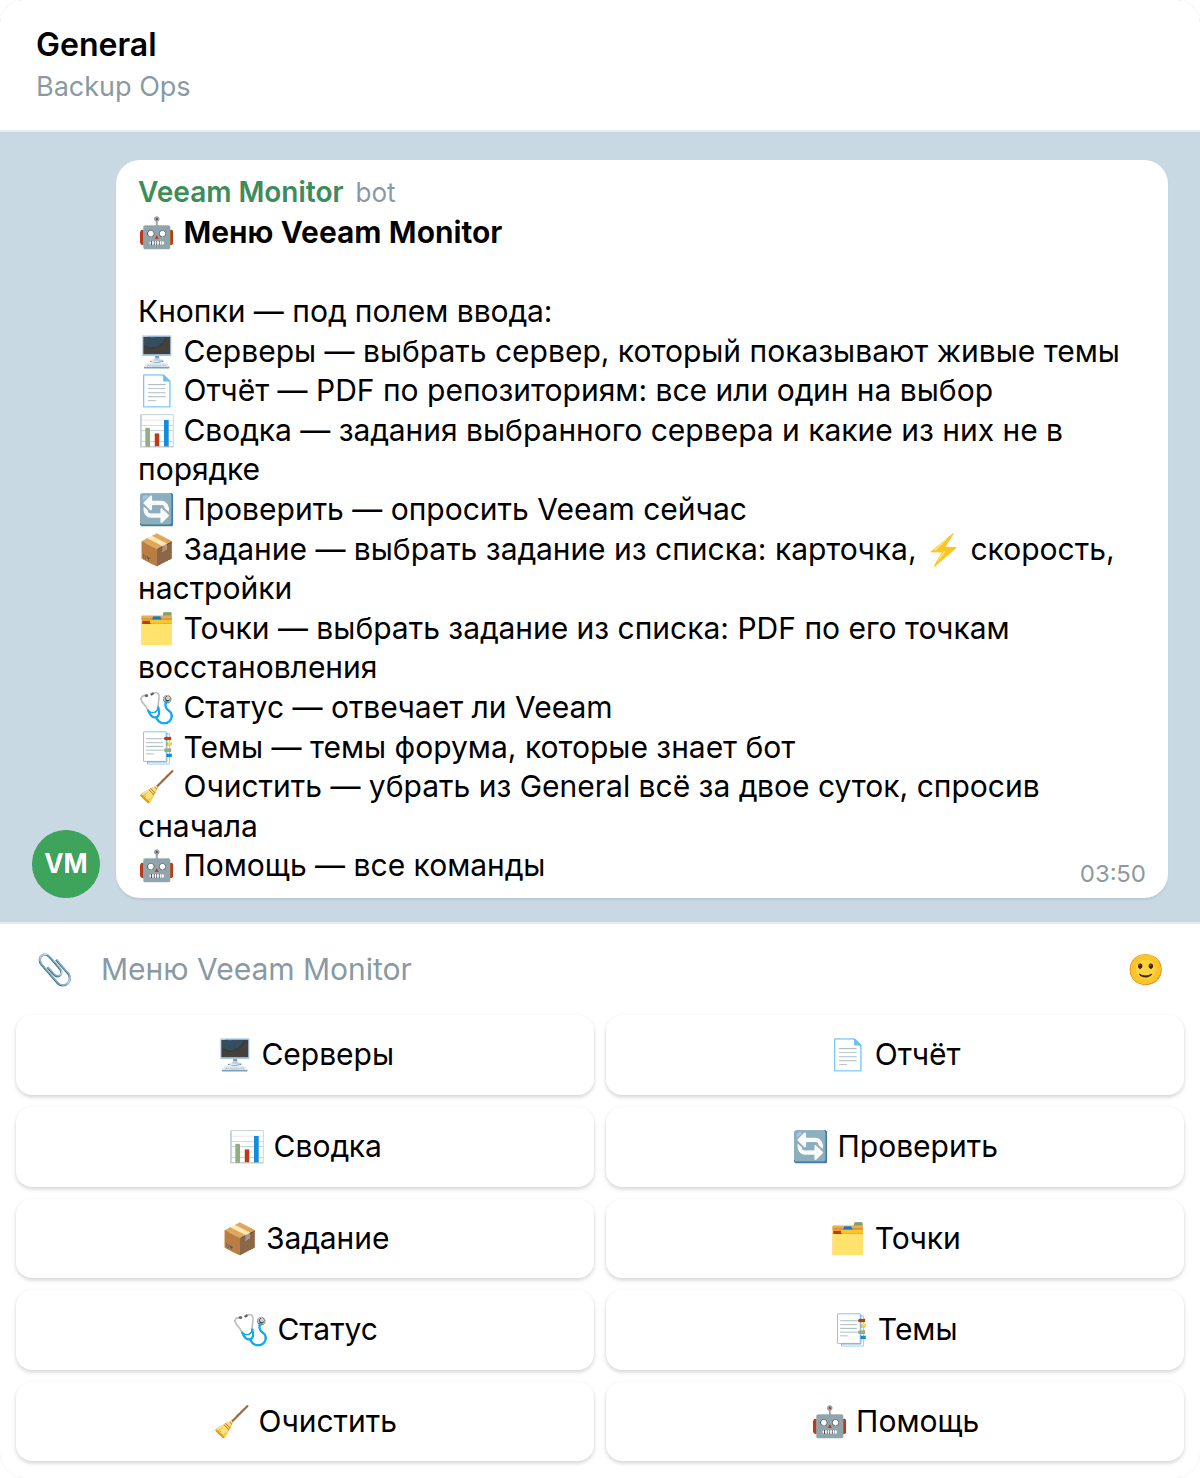
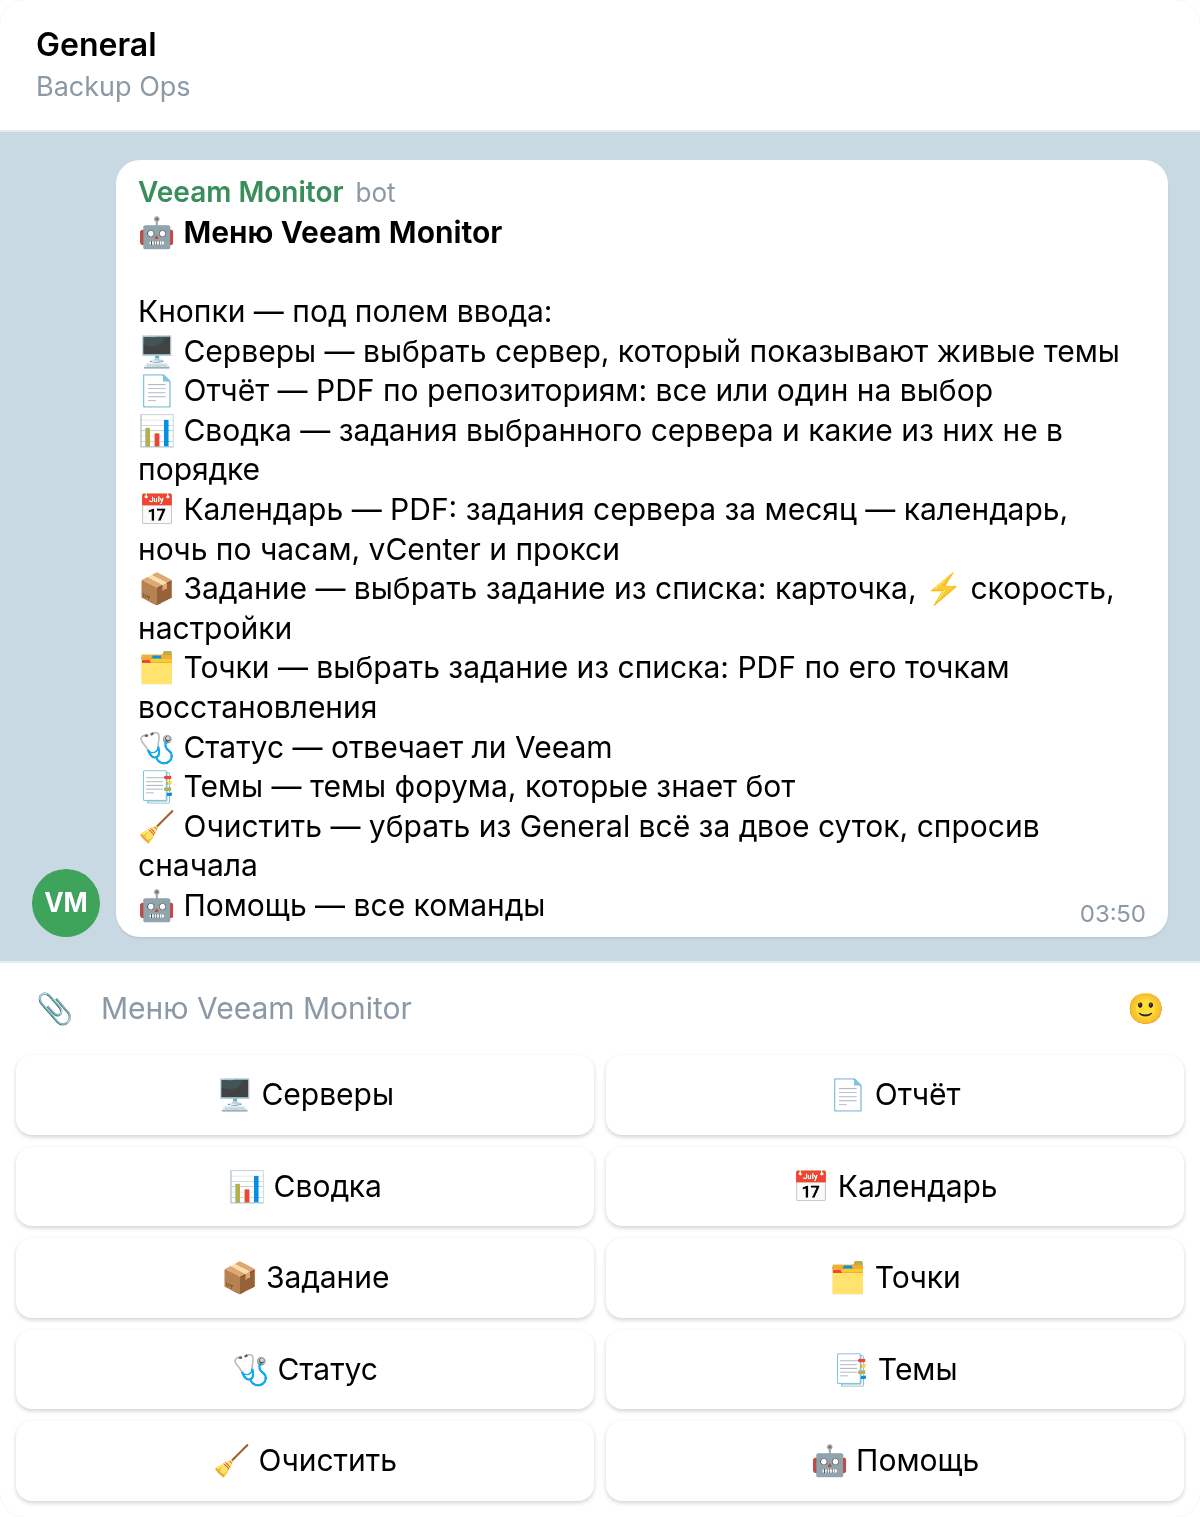
README: /calendar, its picture and the menu as it is now
The menu text lists «📅 Календарь» beside «📊 Сводка», where its key is;
the screenshot script asks /calendar too and draws the report's cover.

Changed region(s): [[0.0, 0.0, 1.0, 0.9648], [0.6475, 0.6847, 0.8325, 0.9648]]

diff --git a/src/updates/menu.ts b/src/updates/menu.ts
@@ -25,9 +25,9 @@ const KEYS = {
   servers: { label: '🖥 Серверы', does: 'выбрать сервер, который показывают живые темы' },
   // Asks which repository first: the whole report is thirty pages.
   repos: { label: '📄 Отчёт', does: 'PDF по репозиториям: все или один на выбор' },
+  digest: { label: '📊 Сводка', does: 'задания выбранного сервера и какие из них не в порядке' },
   // Asks which server first: a calendar is one server's month.
   calendar: { label: '📅 Календарь', does: 'PDF: задания сервера за месяц — календарь, ночь по часам, vCenter и прокси' },
-  digest: { label: '📊 Сводка', does: 'задания выбранного сервера и какие из них не в порядке' },
   // Offers every job of the Selected server to pick, the worst first.
   job: { label: '📦 Задание', does: 'выбрать задание из списка: карточка, ⚡ скорость, настройки' },
   // Offers every job of the Selected server by 🛡's verdict, the worst first.

diff --git a/README.md b/README.md
@@ -61,7 +61,7 @@ Veeam can already email a report per job session, and its console shows every se
 - 🗄 **Veeam's own configuration backup**, what a lost backup server is rebuilt from: a warning when it failed, went out of date or is not made at all.
 - ⚡ **What held a run back.** A job's card shows the bottleneck Veeam reported (Source, Proxy, Network, Target), the transport mode of every disk (NBD, HotAdd…), the proxies and the repository gateway used, and the machines that took longest.
 - 📄 **Four PDF reports, asked for in the chat**: a job's last 30 days, with a verdict, every run, its machines and what to do, then every session as Veeam prints it; a job's restore points, five weeks a machine to a row, with missed Fulls, the chains and what they take up on disk; every repository of every server, with backups no job owns, how many jobs write at once hour by hour, and where a new job fits; and one server's month as a calendar, every night as it went or is planned, every job by the day and by the hour, and what runs past the window.
-- ⌨ **Commands and a menu** under the input field: digest, a job's card, the reports, an on-demand check.
+- ⌨ **Commands and a menu** under the input field: digest, a job's card, the reports, a server's calendar.
 - 🖥 **Several Veeam servers in one bot**. A server outside the domain can sign in with an account of its own.
 - 🔒 **Safe by default**: pinned Veeam certificates, a read-only account, an unprivileged container, and a bot that answers only its own groups.
 
@@ -127,6 +127,11 @@ Every minute the bot asks each Veeam server for its jobs and repositories, and t
   </tr>
 </table>
 
+<p align="center">
+  <strong>📅 <code>/calendar</code>: one server's month</strong><br />
+  <img src="docs/assets/screenshots/report-calendar.png" width="720" alt="The cover of the calendar report: the server and the month, the verdict, five numbers — jobs, runs by result, the share that went well, Fulls, runs past 07:00 — what to look at first and what starts tonight" />
+</p>
+
 ## Requirements
 
 - **Docker with Compose**, or Node.js 22+ and npm.
@@ -174,12 +179,13 @@ Rather not build? Every release is published as an image, `ghcr.io/muratfaizulla
 | `/job <name>` | One job's card: last result and reason, runs, schedule, settings, what held the last run back. «📄 Отчёт PDF» under it sends the job's last 30 days as a PDF |
 | `/points <name>` | One job's restore points as a PDF: 🛡's verdict, five weeks a machine to a row, errors, what to do, chains and sizes |
 | `/repos [name]` | Every repository of every server as a PDF, or one: free space, backups no job owns, load hour by hour, what to do and where a new job fits |
+| `/calendar [server]` | One server's month of jobs as a PDF: every night as it went or is planned, every job by the day and by the hour, what runs past 07:00, the machines by vCenter and the proxies. Without a name, the selected server |
 | `/check` | Poll Veeam now |
 | `/topics` | The forum topics the bot knows |
 | `/clear` | Empty General of the last two days, then put the menu back |
 | `/menu`, `/help` | The menu under the input field; this list |
 
-A name can be typed in part and in any case: `/job kingston db` finds `OPS_Veeam_DB_Kingston`. Every command is also a key of the menu.
+A name can be typed in part and in any case: `/job kingston db` finds `OPS_Veeam_DB_Kingston`. Most of them are keys of the menu under the input field too; `/check` is a button under the bot's answers.
 
 ## Documentation
 
